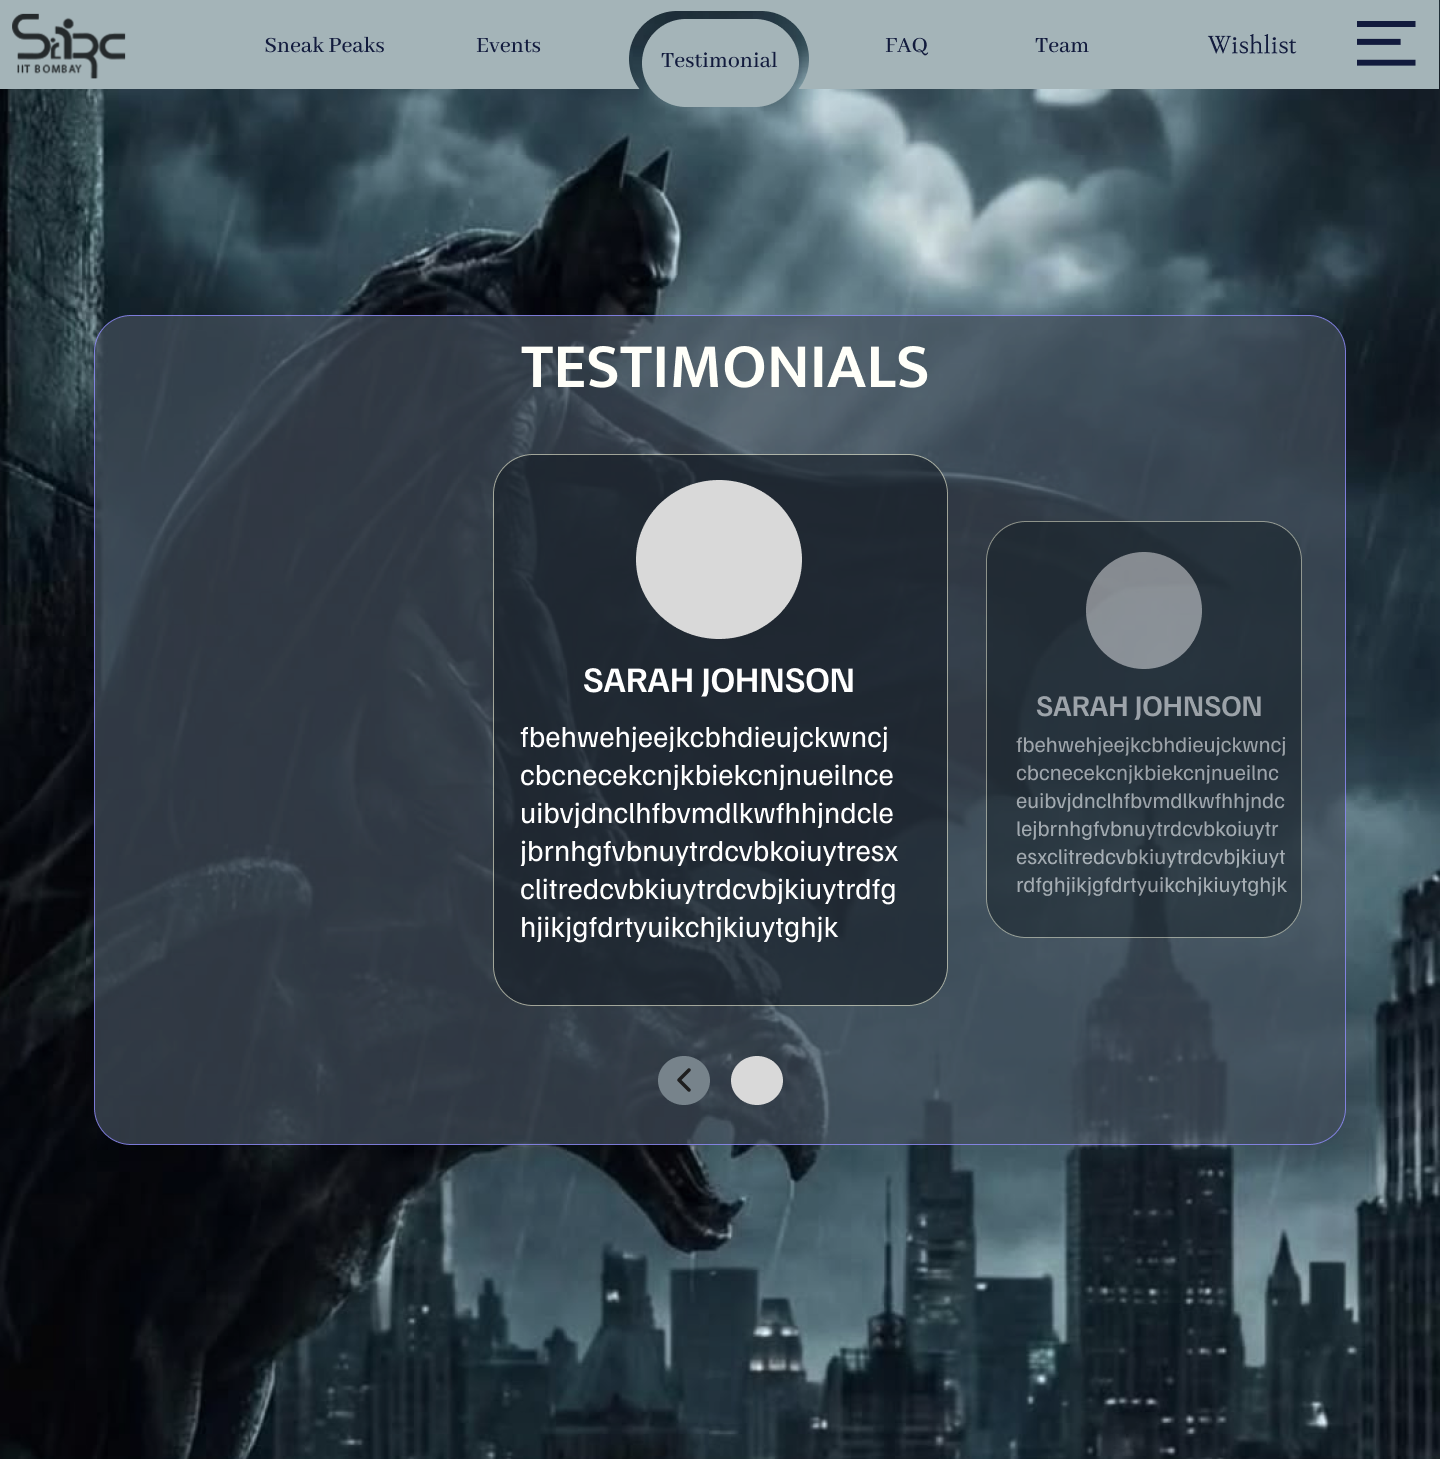
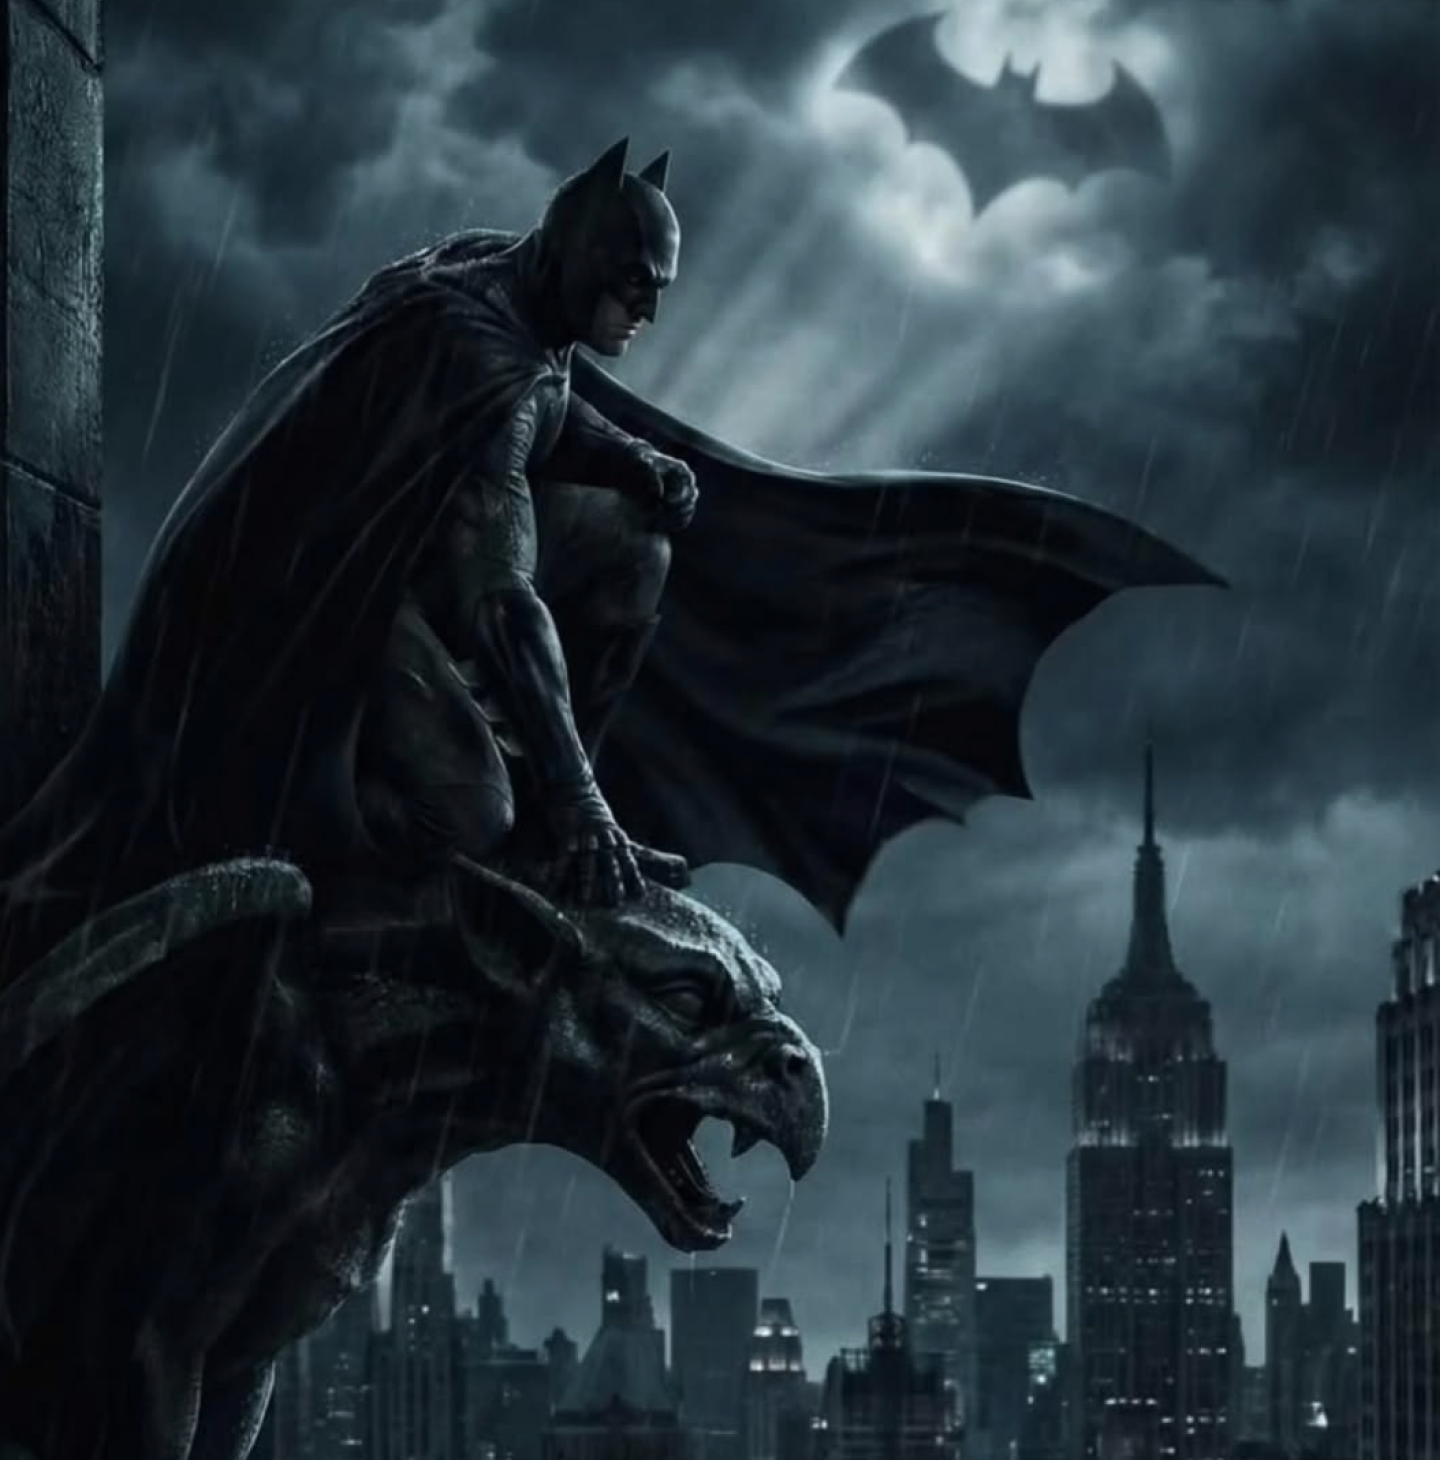
Update testimonial background

diff --git a/src/components/TestimonialSlider/Testimonial.jsx b/src/components/TestimonialSlider/Testimonial.jsx
@@ -58,98 +58,78 @@ const TestimonialSlider = () => {
     ref={testimonialRef}
     id="testimonials"
     style={{
-      minHeight: "100vh",
+      backgroundImage: `url(${testimonialBg})`,
+      backgroundSize: "cover",
+      backgroundPosition: "center",
+      backgroundRepeat: "no-repeat",
       width: "100%",
-      display: "flex",
-      justifyContent: "center",
-      alignItems: "center",
-      padding: "40px 0",
+      minHeight: "100vh",
+      padding: "80px 0",
     }}
   >
-    <div
-      style={{
-        backgroundImage: `url(${testimonialBg})`,
-        backgroundSize: "contain",
-        backgroundRepeat: "no-repeat",
-        backgroundPosition: "center",
-        width: "1100px",
-        height: "650px",
-        display: "flex",
-        justifyContent: "center",
-        alignItems: "center",
-      }}
-    >
+    <div className="testimonials-panel">
       <div
-        className="testimonials-panel"
+        className="testimonialHeading"
+        id="TestimoinalHeading"
         style={{
-          width: "90%",
-          height: "90%",
-          display: "flex",
-          flexDirection: "column",
-          justifyContent: "center",
+          marginTop: "2%",
+          fontSize: "clamp(1.5rem, 3vw, 2.5rem)",
+          fontWeight: "700",
+          lineHeight: "1.2",
+          textAlign: "center",
+          marginLeft: "5%",
+          marginRight: "5%",
+          color: "#fff",
         }}
       >
-        <div
-          className="testimonialHeading"
-          id="TestimoinalHeading"
-          style={{
-            marginBottom: "30px",
-            fontSize: "clamp(1.5rem, 3vw, 2.5rem)",
-            fontWeight: "700",
-            textAlign: "center",
-            color: "#fff",
+        TESTIMONIALS
+      </div>
+
+      <div className="slider-container">
+        <Swiper
+          modules={[Navigation, Pagination]}
+          spaceBetween={30}
+          slidesPerView={3}
+          navigation
+          pagination={{ clickable: true }}
+          loop={true}
+          centeredSlides={true}
+          breakpoints={{
+            1300: { slidesPerView: 3, spaceBetween: 50 },
+            1024: { slidesPerView: 3, spaceBetween: 40 },
+            768: { slidesPerView: 2, spaceBetween: 30 },
+            480: { slidesPerView: 1, spaceBetween: 20 },
+            0: { slidesPerView: 1, spaceBetween: 15 },
           }}
         >
-          TESTIMONIALS
-        </div>
-
-        <div className="slider-container">
-          <Swiper
-            modules={[Navigation, Pagination]}
-            spaceBetween={30}
-            slidesPerView={3}
-            navigation
-            pagination={{ clickable: true }}
-            loop={true}
-            centeredSlides={true}
-            onImagesReady={(swiper) => swiper.update()}
-            breakpoints={{
-              1300: { slidesPerView: 3, spaceBetween: 50 },
-              1024: { slidesPerView: 3, spaceBetween: 40 },
-              768: { slidesPerView: 2, spaceBetween: 30 },
-              480: { slidesPerView: 1, spaceBetween: 20 },
-              0: { slidesPerView: 1, spaceBetween: 15 },
-            }}
-          >
-            {testimonials.map((testimonial, index) => (
-              <SwiperSlide key={index}>
-                <div className="testimonial-card">
-                  <div className="avatar-wrapper">
-                    <img
-                      src={testimonial.image}
-                      alt={testimonial.name}
-                      className="avatar-img"
-                    />
-                  </div>
-
-                  <div
-                    className="name-heading"
-                    id="TestimonialHeading"
-                  >
-                    {testimonial.name}
-                  </div>
-
-                  <div
-                    className="testimonal-content"
-                    id="TestimonialContent"
-                  >
-                    {testimonial.feedback}
-                  </div>
+          {testimonials.map((testimonial, index) => (
+            <SwiperSlide key={index}>
+              <div className="testimonial-card">
+                <div className="avatar-wrapper">
+                  <img
+                    src={testimonial.image}
+                    alt={testimonial.name}
+                    className="avatar-img"
+                  />
                 </div>
-              </SwiperSlide>
-            ))}
-          </Swiper>
-        </div>
+
+                <div
+                  className="name-heading"
+                  id="TestimonialHeading"
+                >
+                  {testimonial.name}
+                </div>
+
+                <div
+                  className="testimonal-content"
+                  id="TestimonialContent"
+                >
+                  {testimonial.feedback}
+                </div>
+              </div>
+            </SwiperSlide>
+          ))}
+        </Swiper>
       </div>
     </div>
   </div>

diff --git a/src/components/TestimonialSlider/swiper-custom.css b/src/components/TestimonialSlider/swiper-custom.css
@@ -498,13 +498,12 @@
   max-width: 1139px;
   margin: 0 auto;
   padding: 32px 0 12px 0;
-  border-radius: 22px;
-  border: 1px solid rgba(255, 255, 255, 0.16);
-  background: rgba(63, 79, 91, 0.55);
-  -webkit-backdrop-filter: blur(2px);
-  backdrop-filter: blur(2px);
-  box-shadow: 0 10px 40px rgba(0, 0, 0, 0.35);
-  overflow: hidden;
+  background: transparent;
+  border: none;
+  box-shadow: none;
+  backdrop-filter: none;
+  -webkit-backdrop-filter: none;
+  overflow: visible;
 }
 
 @media (max-width: 767px) {
